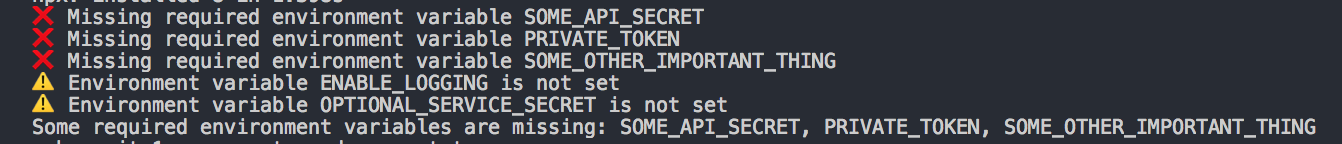
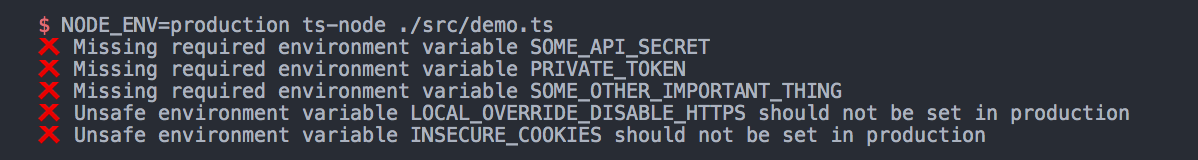
BREAKING CHANGE: Remove optional variables

diff --git a/src/check-env.test.ts b/src/check-env.test.ts
@@ -12,7 +12,7 @@ test('Empty options', () => {
 })
 
 test('A single required env is missing', () => {
-  const input = {
+  const input: CheckEnvInput = {
     required: 'foo'
   }
   const env = {}
@@ -24,7 +24,7 @@ test('A single required env is missing', () => {
 })
 
 test('All required envs are missing', () => {
-  const input = {
+  const input: CheckEnvInput = {
     required: ['foo', 'bar']
   }
   const env = {}
@@ -36,7 +36,7 @@ test('All required envs are missing', () => {
 })
 
 test('Some required env are missing', () => {
-  const input = {
+  const input: CheckEnvInput = {
     required: ['foo', 'bar']
   }
   const env = {
@@ -50,7 +50,7 @@ test('Some required env are missing', () => {
 })
 
 test('All required envs are available', () => {
-  const input = {
+  const input: CheckEnvInput = {
     required: ['foo', 'bar']
   }
   const env = {
@@ -67,7 +67,7 @@ test('All required envs are available', () => {
 // --
 
 test('Error message type', () => {
-  const input = {
+  const input: CheckEnvInput = {
     required: 'foo'
   }
   const env = {}
@@ -77,9 +77,8 @@ test('Error message type', () => {
 })
 
 test('Error message contains name of missing variable', () => {
-  const input = {
-    required: 'foo',
-    optional: 'bar'
+  const input: CheckEnvInput = {
+    required: 'foo'
   }
   const env = {}
   try {
@@ -91,18 +90,13 @@ test('Error message contains name of missing variable', () => {
     expect(error.message).toMatch('foo')
 
     // Details are available in the `missing` property of the error object:
-    expect(error.missing).toEqual({
-      // `required` and `optional` will always be arrays
-      required: ['foo'],
-      optional: ['bar']
-    })
+    expect(error.missing).toEqual(['foo'])
   }
 })
 
 test('Error message contains name of missing variables', () => {
-  const input = {
-    required: ['foo', 'bar'],
-    optional: ['egg', 'spam']
+  const input: CheckEnvInput = {
+    required: ['foo', 'bar']
   }
   const env = {}
   try {
@@ -111,17 +105,14 @@ test('Error message contains name of missing variables', () => {
     expect(run).not.toHaveReturned() // Should throw
   } catch (error) {
     expect(error.message).toMatch('foo, bar')
-    expect(error.missing).toEqual({
-      required: ['foo', 'bar'],
-      optional: ['egg', 'spam']
-    })
+    expect(error.missing).toEqual(['foo', 'bar'])
   }
 })
 
 // --
 
 test('No throw', () => {
-  const input = {
+  const input: CheckEnvInput = {
     required: ['foo', 'bar'],
     noThrow: true
   }
@@ -136,9 +127,8 @@ test('No throw', () => {
 // --
 
 test('It returns the missing variables', () => {
-  const input = {
+  const input: CheckEnvInput = {
     required: ['foo', 'bar'],
-    optional: ['egg', 'spam'],
     noThrow: true
   }
   const env = {}
@@ -146,7 +136,6 @@ test('It returns the missing variables', () => {
   console.warn = jest.fn()
   const received = checkEnv(input, env)
   expect(received.required).toEqual(['foo', 'bar'])
-  expect(received.optional).toEqual(['egg', 'spam'])
 })
 
 // --
@@ -154,31 +143,35 @@ test('It returns the missing variables', () => {
 test('Custom logging methods', () => {
   const input: CheckEnvInput = {
     required: ['foo', 'bar'],
-    optional: ['egg', 'spam'],
-    logError: jest.fn(),
-    logWarning: jest.fn(),
+    unsafe: ['egg', 'spam'],
+    logMissing: jest.fn(),
+    logUnsafe: jest.fn(),
     noThrow: true
   }
-  const env = {}
+  const env = {
+    NODE_ENV: 'production',
+    egg: 'egg',
+    spam: 'spam'
+  }
   console.error = jest.fn()
   console.warn = jest.fn()
   checkEnv(input, env)
   expect(console.error).not.toHaveBeenCalled()
-  expect(console.warn).not.toHaveBeenCalled()
-  expect(input.logError).toHaveBeenCalledTimes(2)
-  expect(input.logWarning).toHaveBeenCalledTimes(2)
+  expect(input.logMissing).toHaveBeenCalledTimes(2)
+  expect(input.logUnsafe).toHaveBeenCalledTimes(2)
 })
 
-test('Warn if sensitive variables are set in production', () => {
+test('Check if sensitive variables are set in production', () => {
   const input: CheckEnvInput = {
-    unsafeForProduction: ['foo'],
-    logWarning: jest.fn()
+    unsafe: ['foo'],
+    logUnsafe: jest.fn(),
+    noThrow: true
   }
   const env = {
     NODE_ENV: 'production',
     foo: 'foo'
   }
   const received = checkEnv(input, env)
-  expect(input.logWarning).toHaveBeenCalledTimes(1)
-  expect(received.unsafeForProduction).toEqual(['foo'])
+  expect(input.logUnsafe).toHaveBeenCalledTimes(1)
+  expect(received.unsafe).toEqual(['foo'])
 })

diff --git a/src/index.ts b/src/index.ts
@@ -1,39 +1,44 @@
 export interface CheckEnvInput {
   required?: string | string[]
-  optional?: string | string[]
-  unsafeForProduction?: string | string[]
+  unsafe?: string | string[]
   noThrow?: boolean
-  logError?: (name: string) => void
-  logWarning?: (name: string) => void
+  logMissing?: (name: string) => void
+  logUnsafe?: (name: string) => void
 }
 
 // --
 
 const testEnv = (name: string, env: NodeJS.ProcessEnv) => !!env[name]
 
-const displayError = (name: string) => {
+const displayMissing = (name: string) => {
   console.error(`❌  Missing required environment variable ${name}`)
 }
 
-const displayWarning = (name: string) => {
-  console.warn(`⚠  Environment variable ${name} is not set`)
+const displayUnsafe = (name: string) => {
+  console.error(
+    `❌  Unsafe environment variable ${name} should not be set in production`
+  )
 }
 
 // --
 
 export class MissingEnvironmentVariableError extends Error {
-  readonly missing: {
-    required: string[]
-    optional: string[]
-  }
+  readonly missing: string[]
 
-  constructor(missingRequired: string[], missingOptional: string[]) {
-    const joined = missingRequired.join(', ')
+  constructor(envs: string[]) {
+    const joined = envs.join(', ')
     super(`Some required environment variables are missing: ${joined}`)
-    this.missing = {
-      required: missingRequired,
-      optional: missingOptional
-    }
+    this.missing = envs
+  }
+}
+
+export class UnsafeEnvironmentVariableError extends Error {
+  readonly unsafe: string[]
+
+  constructor(envs: string[]) {
+    const joined = envs.join(', ')
+    super(`Some unsafe environment variables are set in production: ${joined}`)
+    this.unsafe = envs
   }
 }
 
@@ -42,62 +47,44 @@ export class MissingEnvironmentVariableError extends Error {
 const checkEnv = (
   {
     required,
-    optional,
-    unsafeForProduction,
+    unsafe,
     noThrow,
-    logError = displayError,
-    logWarning = displayWarning
+    logMissing = displayMissing,
+    logUnsafe = displayUnsafe
   }: CheckEnvInput,
   env: NodeJS.ProcessEnv = process.env
 ) => {
   let missingReq = []
-  let missingOpt = []
   let unsafeProd = []
 
   if (required) {
     const name = required
     if (typeof name === 'string') {
       if (!testEnv(name, env)) {
-        logError(name)
+        logMissing(name)
         missingReq.push(name)
       }
     } else {
       name.forEach(name => {
         if (!testEnv(name, env)) {
-          logError(name)
+          logMissing(name)
           missingReq.push(name)
         }
       })
     }
   }
-  if (optional) {
-    const name = optional
-    if (typeof name === 'string') {
-      if (!testEnv(name, env)) {
-        logWarning(name)
-        missingOpt.push(name)
-      }
-    } else {
-      name.forEach(name => {
-        if (!testEnv(name, env)) {
-          logWarning(name)
-          missingOpt.push(name)
-        }
-      })
-    }
-  }
 
-  if (env.NODE_ENV === 'production' && unsafeForProduction) {
-    const name = unsafeForProduction
+  if (env.NODE_ENV === 'production' && unsafe) {
+    const name = unsafe
     if (typeof name === 'string') {
       if (testEnv(name, env)) {
-        logWarning(name)
+        logUnsafe(name)
         unsafeProd.push(name)
       }
     } else {
       name.forEach(name => {
         if (testEnv(name, env)) {
-          logWarning(name)
+          logUnsafe(name)
           unsafeProd.push(name)
         }
       })
@@ -105,12 +92,15 @@ const checkEnv = (
   }
 
   if (missingReq.length > 0 && !noThrow) {
-    throw new MissingEnvironmentVariableError(missingReq, missingOpt)
+    throw new MissingEnvironmentVariableError(missingReq)
   }
+  if (unsafeProd.length > 0 && !noThrow) {
+    throw new UnsafeEnvironmentVariableError(unsafeProd)
+  }
+
   return {
     required: missingReq,
-    optional: missingOpt,
-    unsafeForProduction: unsafeProd
+    unsafe: unsafeProd
   }
 }
 

diff --git a/src/demo.ts b/src/demo.ts
@@ -1,0 +1,28 @@
+import checkEnv from './index'
+
+const env = {
+  NODE_ENV: 'production',
+  LOCAL_OVERRIDE_DISABLE_HTTPS: 'foo',
+  INSECURE_COOKIES: 'bar'
+}
+
+checkEnv(
+  {
+    noThrow: true,
+    // Will log an error and throw if any of these are missing:
+    required: [
+      'SOME_API_SECRET',
+      'PRIVATE_TOKEN',
+      'SOME_OTHER_IMPORTANT_THING'
+      // ...
+    ],
+
+    // Will log an error and throw if any of these are set in production:
+    unsafe: [
+      'LOCAL_OVERRIDE_DISABLE_HTTPS',
+      'INSECURE_COOKIES'
+      // ...
+    ]
+  },
+  env
+)

diff --git a/README.md b/README.md
@@ -1,6 +1,7 @@
 # `check-env`
 
-Check that the critical environment variables are set for your app.
+Check that the critical environment variables are set for your app,
+and that you did not leave dangerous development overrides in production.
 
 ## Installation
 
@@ -22,15 +23,8 @@ checkEnv({
     // ...
   ],
 
-  // Will log a warning if any of these are missing:
-  optional: [
-    'ENABLE_LOGGING',
-    'OPTIONAL_SERVICE_SECRET'
-    //...
-  ],
-
-  // Will log a warning if any of these are set in production:
-  unsafeForProduction: [
+  // Will log an error and throw if any of these are set in production:
+  unsafe: [
     'LOCAL_OVERRIDE_DISABLE_HTTPS',
     'INSECURE_COOKIES'
     // ...
@@ -57,7 +51,7 @@ checkEnv({
 
 By default, `check-env` uses `console.err` and `console.warn` with emoji.
 
-You can override the default logging methods with `logError` and `logWarning`.
+You can override the default logging methods with `logMissing` and `logUnsafe`.
 
 Example using [Pino](https://github.com/pinojs/pino):
 
@@ -65,8 +59,8 @@ Example using [Pino](https://github.com/pinojs/pino):
 const logger = require('pino')()
 
 checkEnv({
-  logError: name => logger.error(`Missing required environment variable ${name}`),
-  logWarning: name => logger.warn(`Missing optional environment variable ${name}`),
+  logMissing: name => logger.error(`Missing required environment variable ${name}`),
+  logUnsafe: name => logger.warn(`Unsafe environment variable ${name} set in production`),
   ...
 })
 ```
